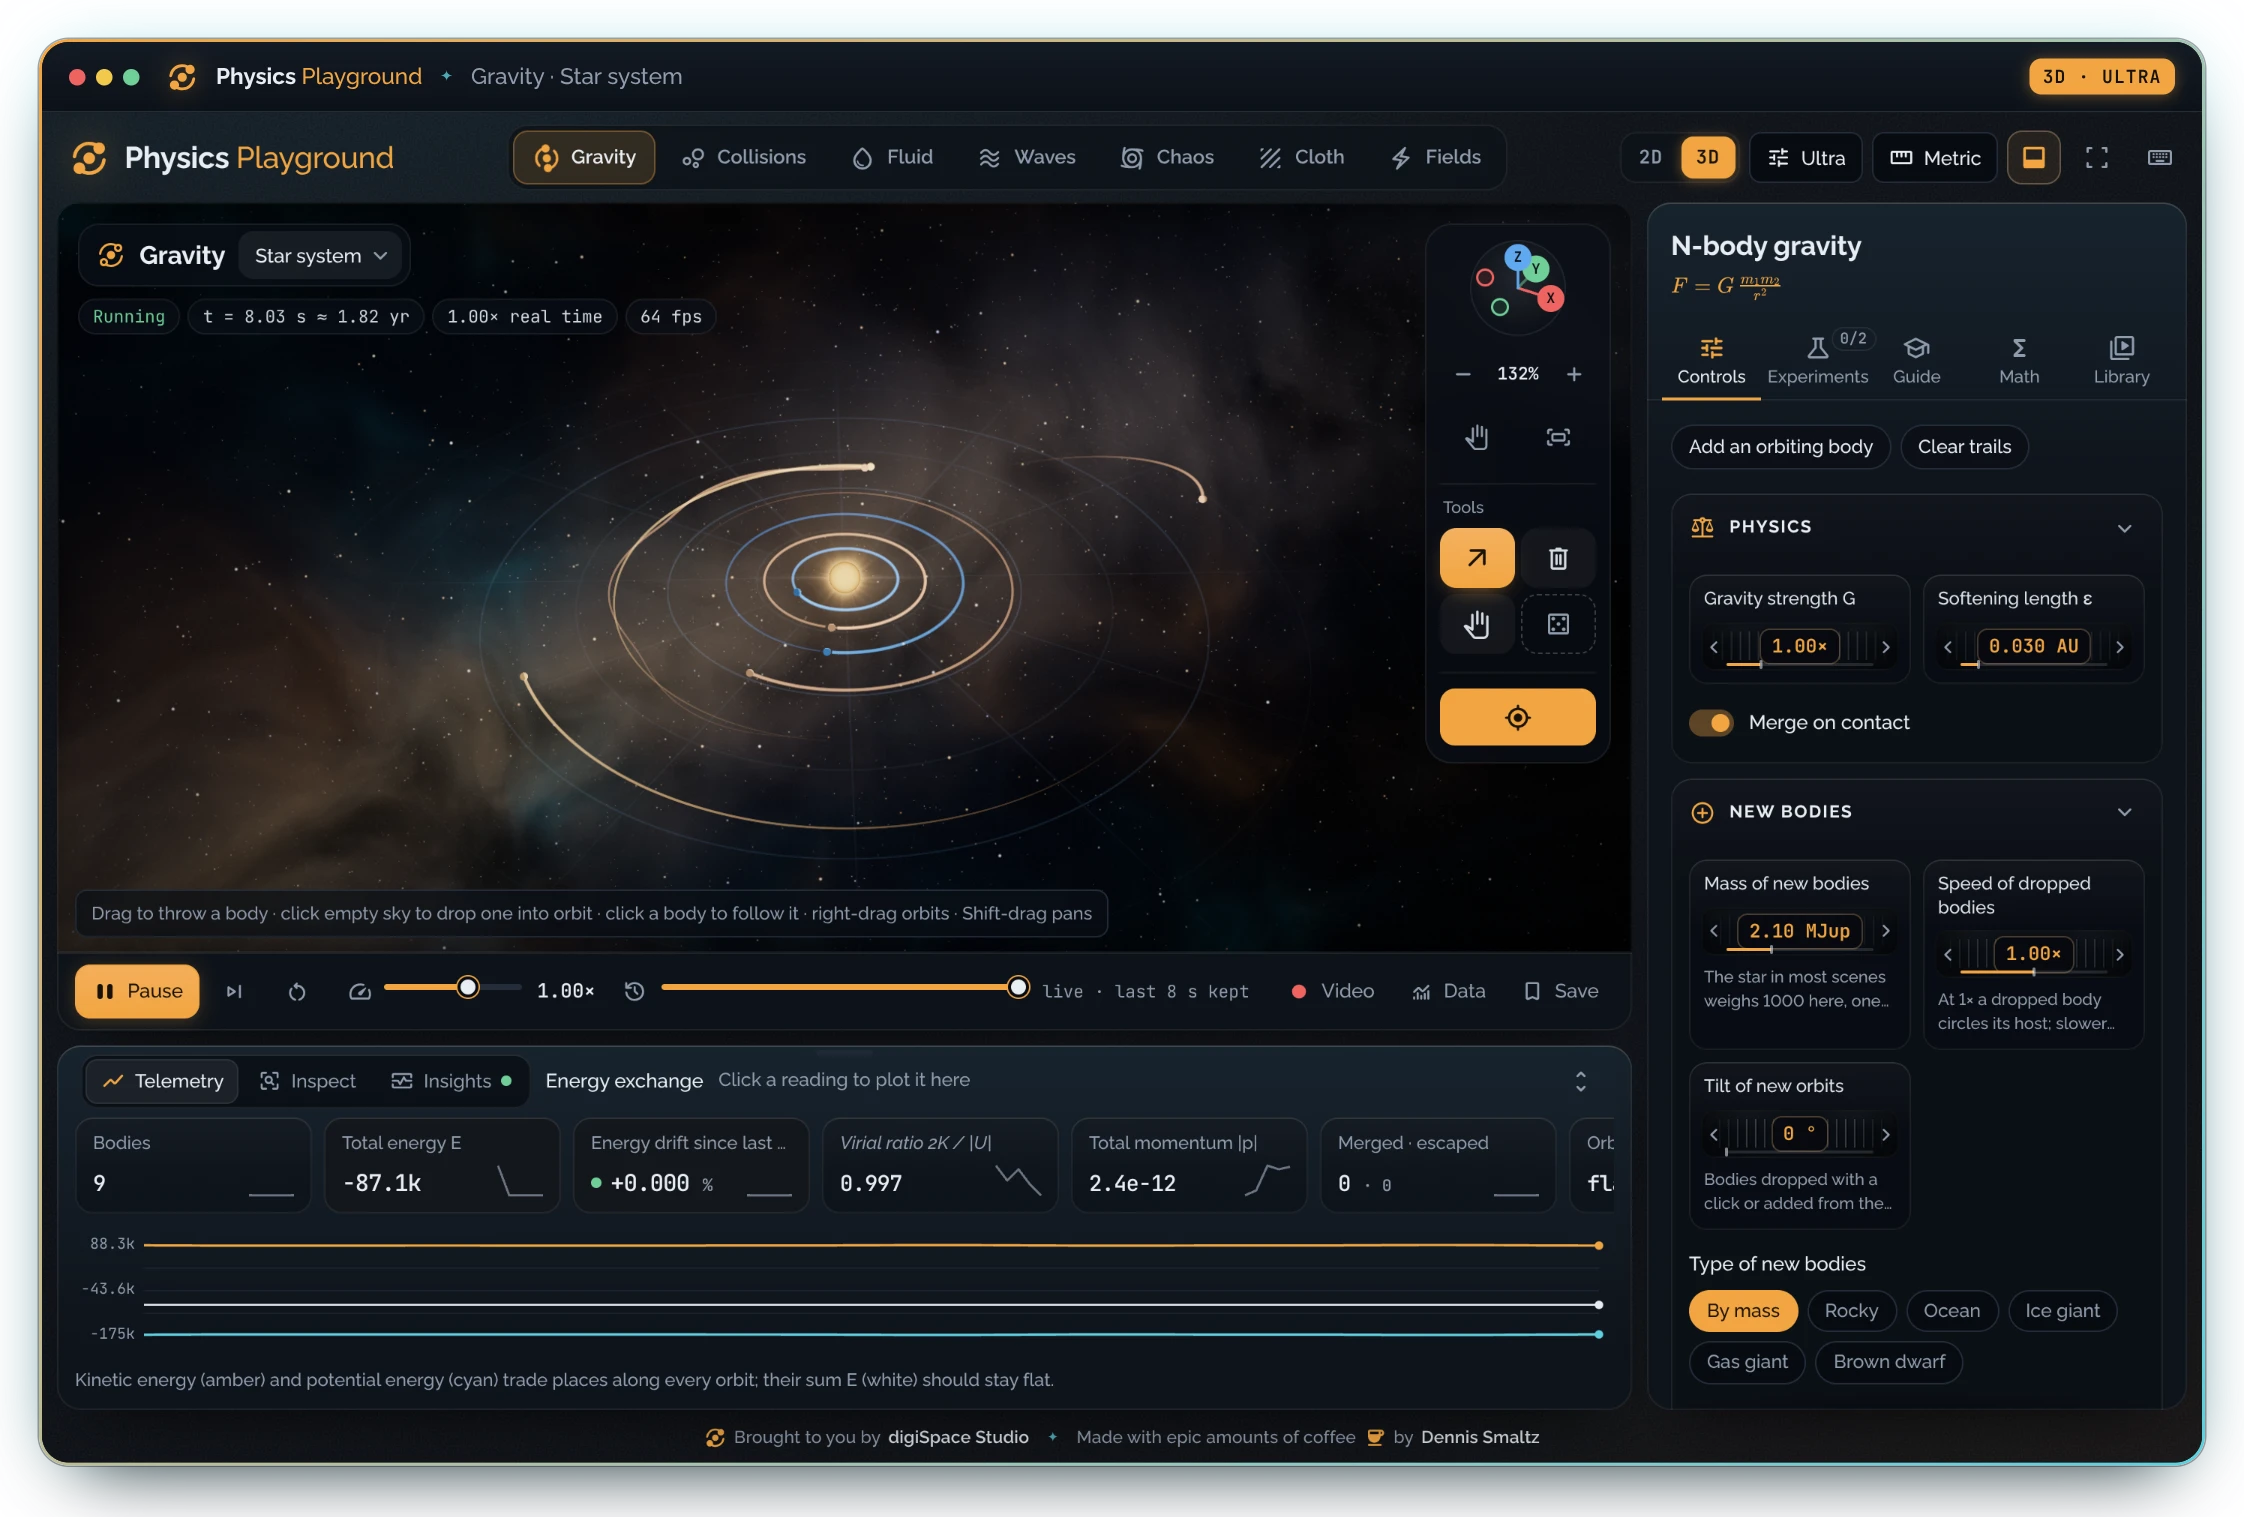
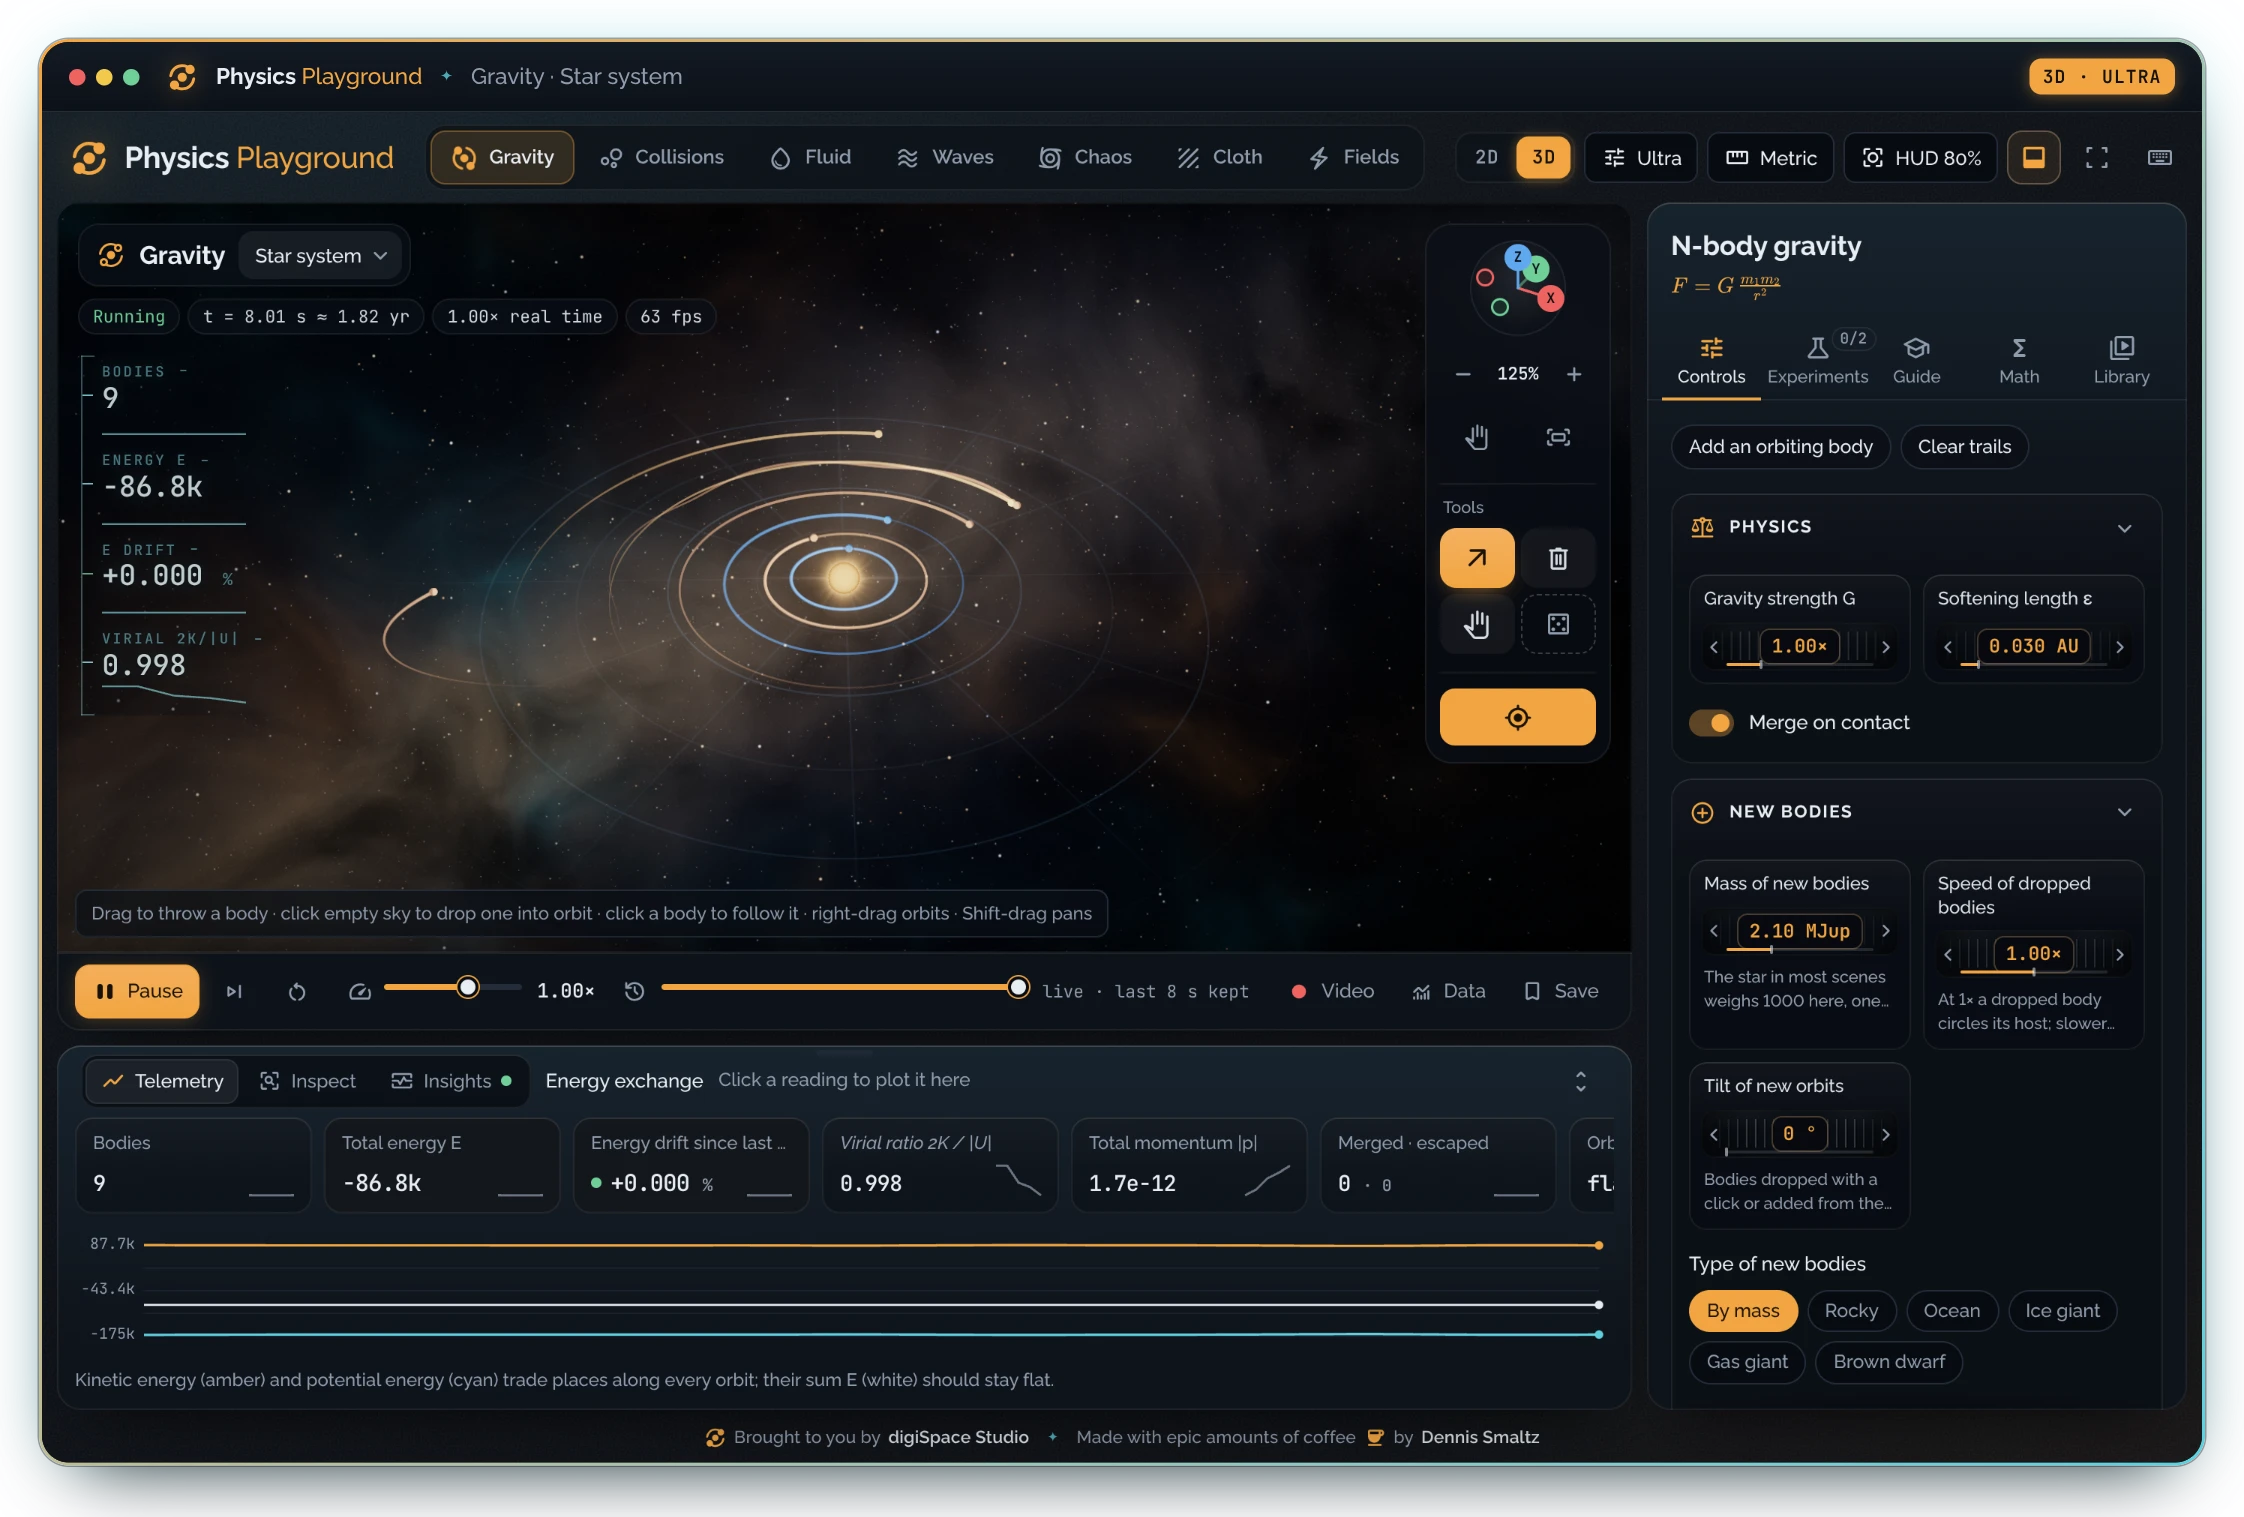
Collisions: number a scene's balls from 1; README pictures show the HUD
- The stable ball numbers added in 2.6.0 ran on across scenes, so a
  16-ball table could show Ball 276 in Inspect and on the display's
  callout; every build now starts the count at 1 again.
- The hero and the Collisions picture are recaptured: the readings tape,
  and in Collisions the target box and callout on the selected cue ball.
  tools/media.py selects it; the manifest records both.

Claude-Session: https://claude.ai/code/session_0127U9NVEHKPsjD4bB32NyRk

diff --git a/js/labs/collisions.js b/js/labs/collisions.js
@@ -15,7 +15,8 @@
     - 2.7.0 (11/10/2026) [dendogg + Anthropic - Claude Opus 5.5] — Head-up
       display: balls, kinetic energy, RMS speed and PA / NkT on its tape, and
       the selected ball as its target, its centre lifted as the 3D table draws
-      it.
+      it. A scene's balls are numbered from 1 again on every build, where the
+      count ran on across scenes (a 16-ball table could show Ball 276).
     - 2.6.0 (11/10/2026) [dendogg + Anthropic - Claude Opus 5.5] — Audit:
       balls carry a stable identity, so Inspect stays on its ball when another
       is erased, lets go when its ball is erased and clears on a rebuild,
@@ -182,7 +183,7 @@ export const collisions = {
     }
   },
   build(preset, w, h) {
-    Object.assign(this, { w, h, n: 0, tracer: -1, tn: 0, th: 0, grab: null, brush: null, hits: 0, hitTime: 0, hitRate: 0, wallImp: 0, wallTime: 0, Z: NaN, picked: -1 });
+    Object.assign(this, { w, h, n: 0, tracer: -1, tn: 0, th: 0, grab: null, brush: null, hits: 0, hitTime: 0, hitRate: 0, wallImp: 0, wallTime: 0, Z: NaN, picked: -1, nextUid: 0 });
     const N = Math.round(this.p.count);
     if (preset === 'gas') this.jitterGrid(N, 5, 170);
     else if (preset === 'pile') {

diff --git a/tools/media.py b/tools/media.py
@@ -1,10 +1,10 @@
 """
 ✒ Metadata
-    - Title: README Media Capture (digiSpace Edition - v2.4)
+    - Title: README Media Capture (digiSpace Edition - v2.7)
     - File Name: media.py
     - Relative Path: tools/media.py
     - Artifact Type: CLI
-    - Version: 2.4.0
+    - Version: 2.7.0
     - Date: 11/10/2026
     - Update: Tuesday, November 10, 2026
     - Author: Dennis 'dendogg' Smaltz
@@ -12,6 +12,9 @@
     - Signature: ︻デ═─── ✦ ✦ ✦ | Aim Twice, Shoot Once!
 
 ✒ Changelog:
+    - 2.7.0 (11/10/2026) [dendogg + Anthropic - Claude Opus 5.5] — The
+      Collisions picture selects the cue ball, so the gallery shows the
+      head-up display's target box and callout.
     - 2.4.0 (11/10/2026) [dendogg + Anthropic - Claude Opus 5.5] — Chaos is
       captured in its Both view, which shows the pendulum beside its map.
     - 2.3.1 (11/10/2026) [dendogg + Anthropic - Claude Opus 5.5] — Settles
@@ -119,9 +122,11 @@ PP = 'PhysicsPlayground'
 # the scene loads. Chaos shows its phase view with the pointer resting on the map, so the start preview is in frame.
 CHAOS_SETUP = (f"{PP}.viewMode('both'); (() => {{ const L = {PP}.active; L.layout(L.size.w, L.size.h); "
                f"const q = L.sq; L.hover = {{ x: q.x0 + q.S * 0.34, y: q.y0 + q.S * 0.64 }}; }})()")
+# The cue ball (the last one racked) selected, so the picture shows the head-up display's target box and callout on it.
+POOL_SETUP = f"{PP}.active.picked = 15"
 LABS = [
     ('gravity', 'Gravity', 'solar', 'Star system', 'orbit', 7.0, None),
-    ('collisions', 'Collisions', 'pool', 'Billiard break', 'bubble_chart', 1.6, None),
+    ('collisions', 'Collisions', 'pool', 'Billiard break', 'bubble_chart', 1.6, POOL_SETUP),
     ('fluid', 'Fluid', 'dam', 'Dam break', 'water_drop', 1.4, None),
     ('waves', 'Waves', 'double', 'Double slit', 'airwave', 6.0, None),
     ('chaos', 'Chaos', 'chaos', 'Sensitive start · Pendulum and phase map', 'cyclone', 9.0, CHAOS_SETUP),

diff --git a/docs/media/MANIFEST.md b/docs/media/MANIFEST.md
@@ -1,10 +1,10 @@
 <!--
 ✒ Metadata
-    - Title: README Media Manifest (digiSpace Edition - v2.5)
+    - Title: README Media Manifest (digiSpace Edition - v2.7)
     - File Name: MANIFEST.md
     - Relative Path: docs/media/MANIFEST.md
     - Artifact Type: docs
-    - Version: 2.5.0
+    - Version: 2.7.0
     - Date: 11/10/2026
     - Update: Tuesday, November 10, 2026
     - Author: Dennis 'dendogg' Smaltz
@@ -12,6 +12,10 @@
     - Signature: ︻デ═─── ✦ ✦ ✦ | Aim Twice, Shoot Once!
 
 ✒ Changelog:
+    - 2.7.0 (11/10/2026) [dendogg + Anthropic - Claude Opus 5.5] — The hero
+      and the Collisions picture are recaptured from release 2.7.0, showing
+      the head-up display: its readings tape, and in Collisions the target box
+      and callout on the selected cue ball.
     - 2.5.0 (11/10/2026) [dendogg + Anthropic - Claude Opus 5.5] — The hero,
       the Collisions, Fluid, Waves and Fields pictures and the 2D and 3D pair
       are recaptured from release 2.5.0, showing the Controls page's dials and
@@ -79,20 +83,22 @@ python tools/media.py --headed
 change to that lab's scene. Commit the WebP files with
 the change that made them necessary.
 
-The hero, the Collisions, Fluid, Waves and Fields pictures and the 2D and
-3D pair were captured from release 2.5.0 on 11/10/2026, headless in
-software WebGL on four CPU cores, in metric units, so they show the
-Controls page's dials and the Random dice on the stage rail. Chaos and
-Cloth, whose rails have no dice, stand from release 2.4.0, and the banner,
-which shows no interface, from release 2.3.0.
+The hero and the Collisions picture were captured from release 2.7.0 on
+11/10/2026, headless in software WebGL on four CPU cores, in metric units,
+so they show the head-up display: its readings tape in both, and in
+Collisions the target box and callout on the selected cue ball. The Fluid,
+Waves and Fields pictures and the 2D and 3D pair stand from release 2.5.0,
+with the Controls page's dials and the Random dice on the stage rail;
+Chaos and Cloth, whose rails have no dice, from release 2.4.0; and the
+banner, which shows no interface, from release 2.3.0.
 
 ## The pictures
 
 | File | Size (px) | Shows | Used in |
 | --- | --- | --- | --- |
 | `banner.webp` | 2560 × 800 | The title, tagline and the seven labs over a live 3D render of Gravity's star system | README title |
-| `hero-workspace.webp` | 2244 × 1517 | The whole workspace in 3D at the Ultra tier: Gravity's star system after 8 simulated seconds (about 1.8 years), its ocean worlds and gas giants in their type colours, with the stage rail and its Random dice, the instruments deck on Telemetry, the Controls page's dials and the colophon | README, under the badges |
-| `lab-collisions.webp` | 1106 × 610 | Collisions, Billiard break, 1.6 s in | Lab gallery |
+| `hero-workspace.webp` | 2244 × 1517 | The whole workspace in 3D at the Ultra tier: Gravity's star system after 8 simulated seconds (about 1.8 years), its ocean worlds and gas giants in their type colours, with the head-up display's readings tape and the HUD button, the stage rail and its Random dice, the instruments deck on Telemetry, the Controls page's dials and the colophon | README, under the badges |
+| `lab-collisions.webp` | 1106 × 610 | Collisions, Billiard break, 1.6 s in, with the cue ball selected: the head-up display's target box and callout on it, and its readings tape | Lab gallery |
 | `lab-fluid.webp` | 1106 × 610 | Fluid, Dam break, 1.4 s in | Lab gallery |
 | `lab-waves.webp` | 1106 × 610 | Waves, Double slit, 6 s in | Lab gallery |
 | `lab-chaos.webp` | 1106 × 610 | Chaos, Sensitive start in the Both view (the pendulum beside its phase map), 9 s in, with a start previewed on the map | Lab gallery |

diff --git a/CHANGELOG.md b/CHANGELOG.md
@@ -108,6 +108,17 @@ his choosing.
   Collisions, Fluid, over six alternating rounds). No backdrop blur is used;
   ARCHITECTURE.md records the convention.
 
+### Fixes
+
+- **Collisions**: a scene's balls are numbered from 1 again on every build.
+  The stable ball numbers added in 2.6.0 ran on across scenes, so a 16-ball
+  table could show Ball 276 in Inspect and on the display's callout.
+
+### README pictures
+
+- The hero and the Collisions picture are recaptured, showing the readings
+  tape, and in Collisions the target box and callout on the cue ball.
+
 ### Tests
 
 - New `tests/hud.py` (21 checks): the tape against Telemetry in all seven
@@ -115,6 +126,13 @@ his choosing.
   the off-stage box, a caution light by title, the menu's opacity steps and
   parts, Escape, Shift+H and its tool letter, settings across a reload, the
   keyboard sheet, and the phone layout. `run_all.py` runs it.
+- `tests/world.py`: the 3D pick round trip in Collisions failed now and then
+  since 2.4 (errors of 6 to 11, against a limit of 2.5). Its root cause: the
+  Grab tool picks the balls' spheres before the table, so whenever a ball of
+  the moving gas lay under the test point, the pick landed on that ball's
+  surface, a radius away. The check is about the table, so it now measures
+  with the Heat tool, which picks the table, then restores Grab for the
+  checks after it; the limit is unchanged, and the error is now 0.0.
 
 ## 2.6.0 (11/10/2026)
 
